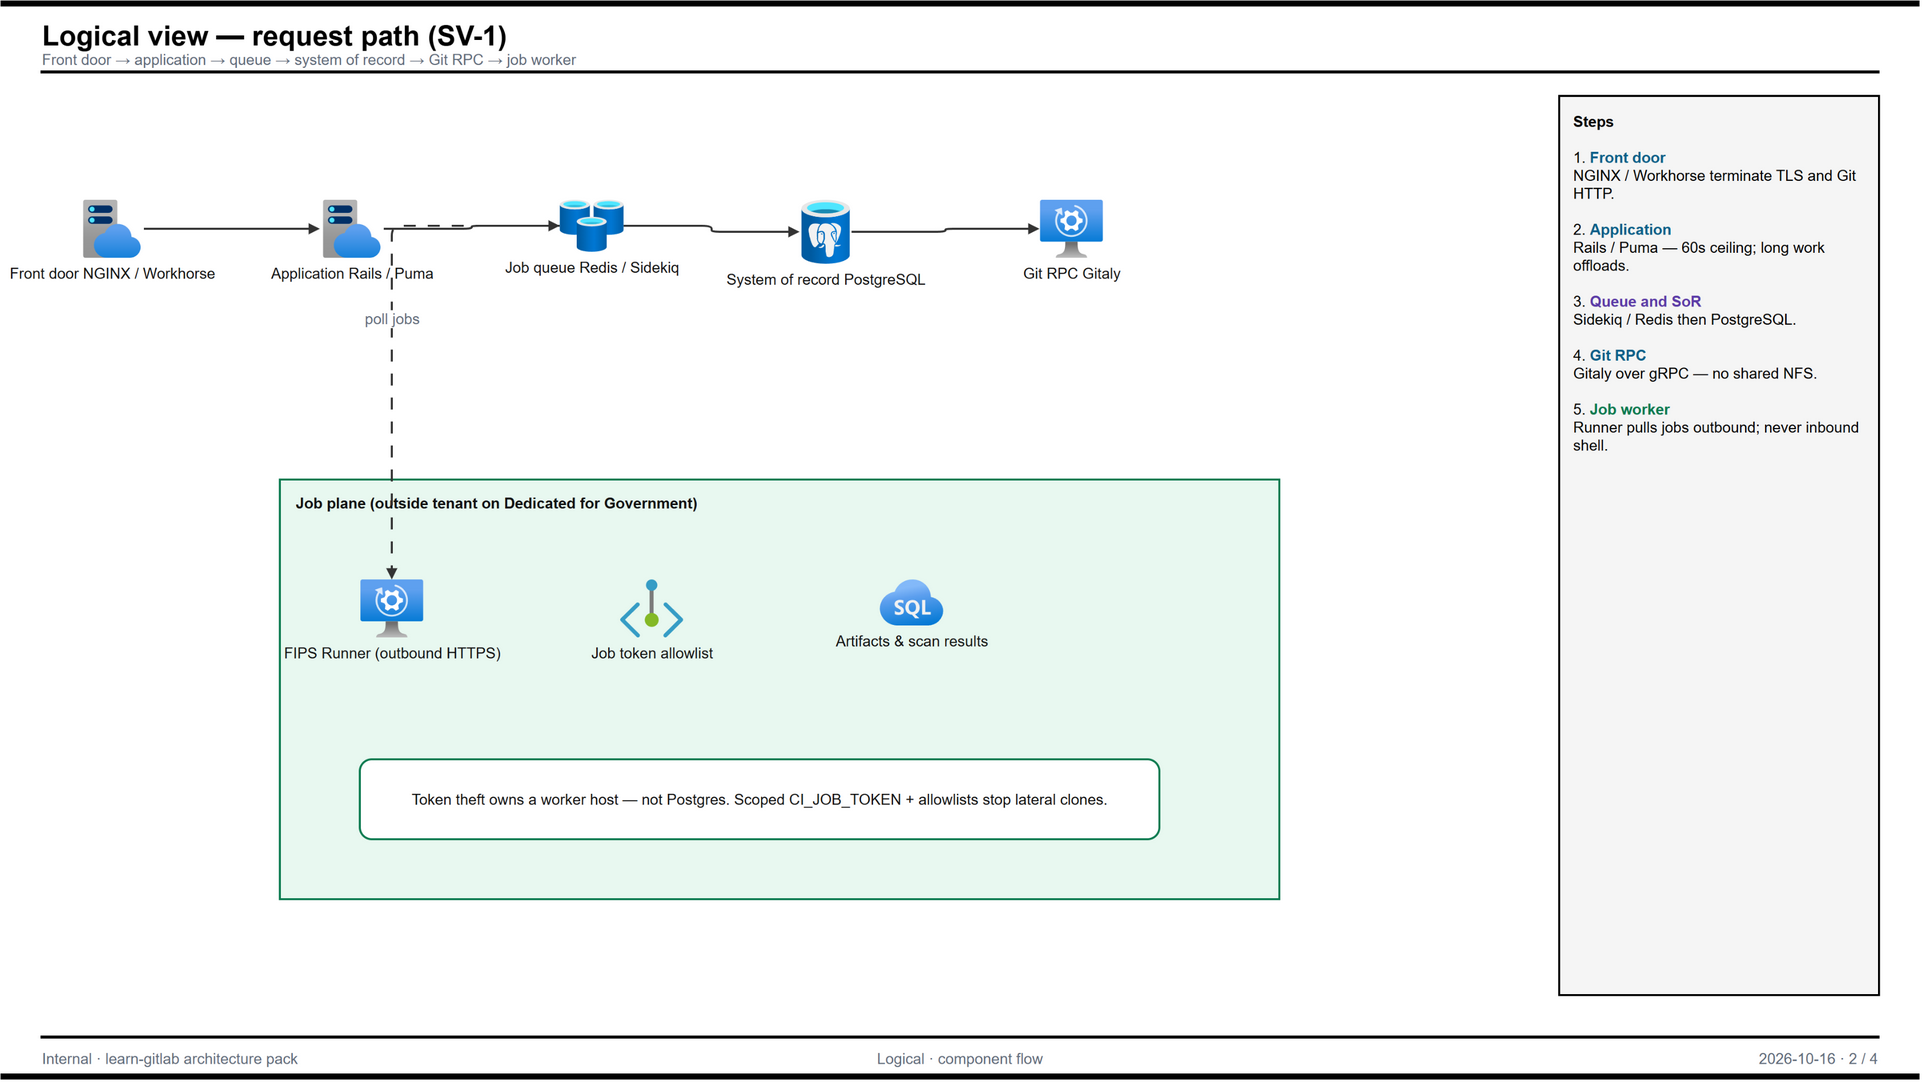
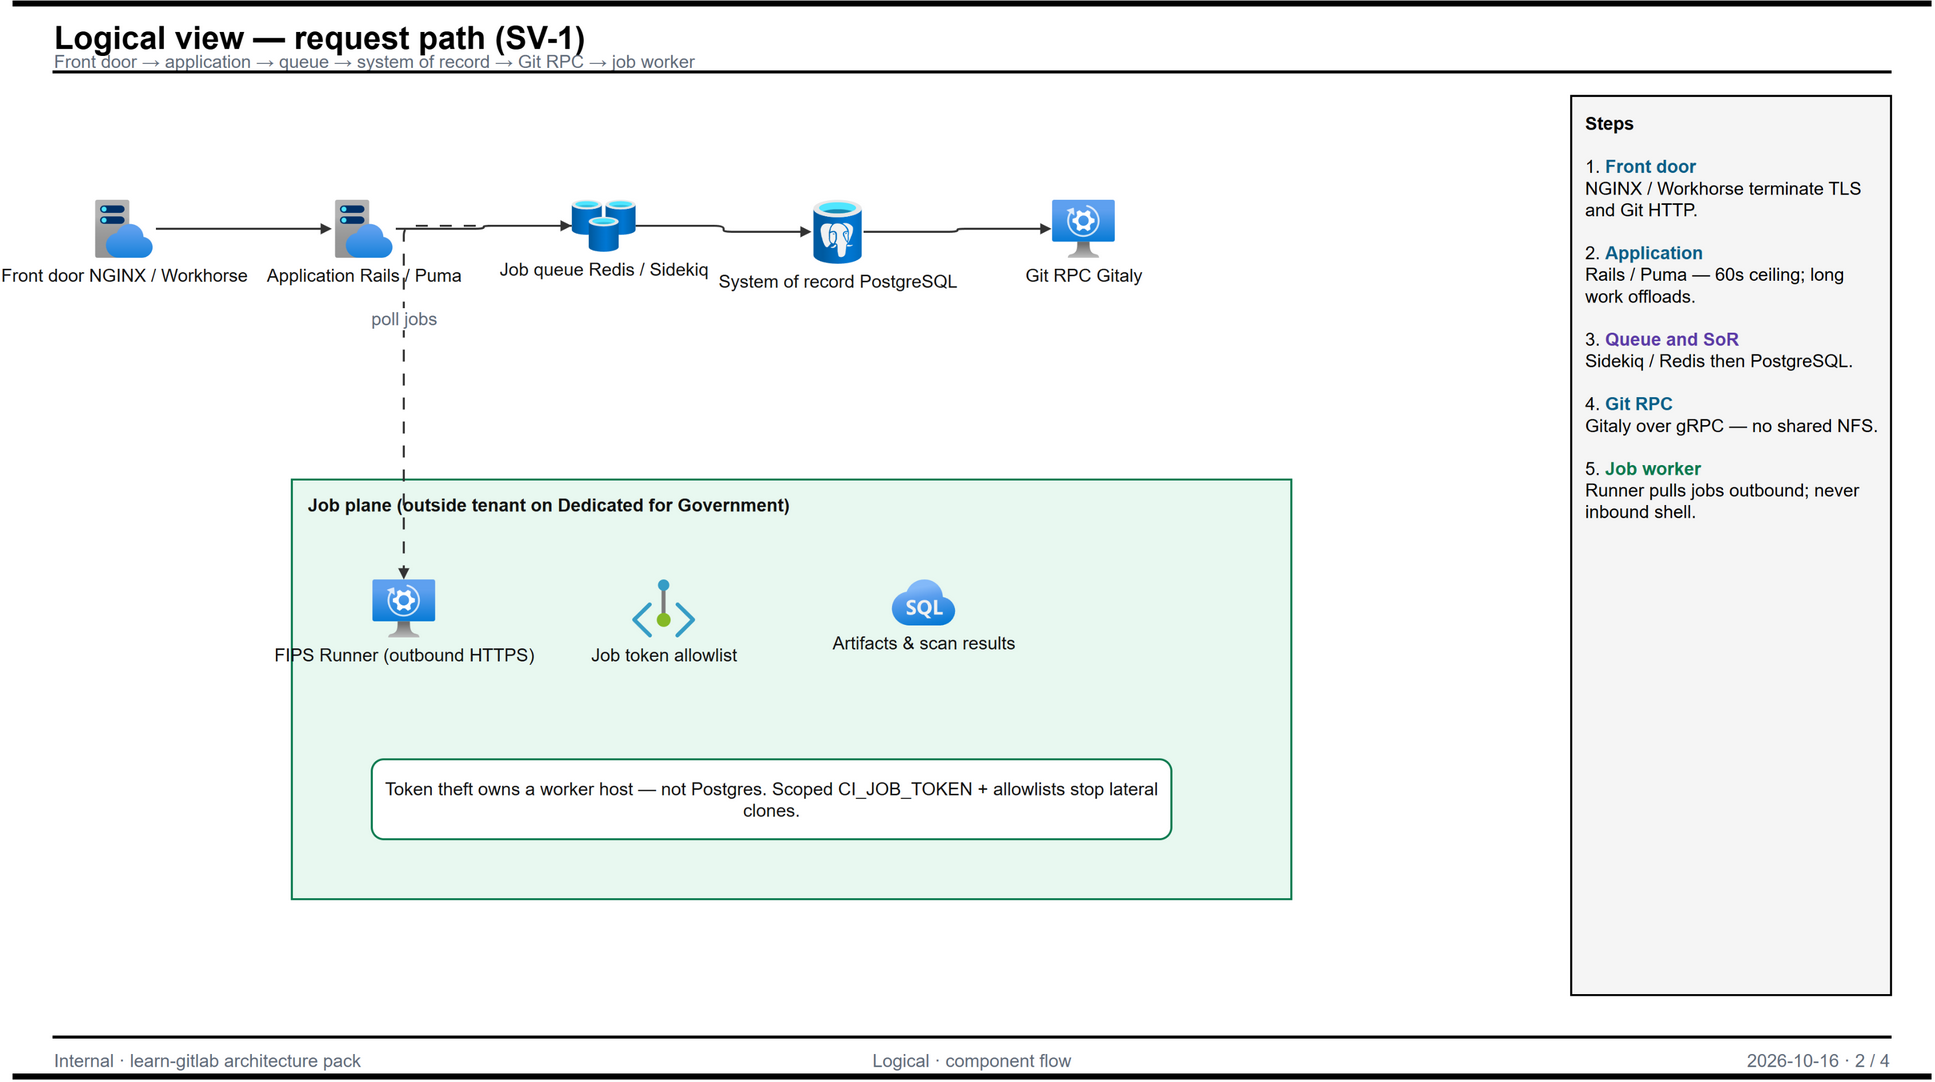
feat: larger Draw.io diagram fonts for Architecture Views
Bump Helvetica title 28→32 and body 15→18, refresh site PNGs from re-export, bump SW to v8. Full PNG/PDF/drawio remain under C:\output\obsidian\drawio\; Obsidian vault has thumbs + Learn-GitLab-Architecture-Views note.

diff --git a/sw.js b/sw.js
@@ -1,5 +1,5 @@
 // Service Worker for Learn GitLab Study Console
-const CACHE_NAME = 'learn-gitlab-v7';
+const CACHE_NAME = 'learn-gitlab-v8';
 const ASSETS_TO_CACHE = [
   './',
   './index.html',

diff --git a/assets/diagrams/00 - Diagram Index.md b/assets/diagrams/00 - Diagram Index.md
@@ -10,7 +10,7 @@ description: "Diagram index for GitLab DevSecOps Platform Architecture — one D
 
 # Diagram Index — GitLab DevSecOps Platform Architecture
 
-Four architecture views. Each PNG is the house-chrome Draw.io export used on the live console. Editable sources live in `drawio/`.
+Four architecture views. Each PNG is the house-chrome Draw.io export used on the live console (Helvetica title 32 / body 18). Editable sources live in `drawio/`. Full on-prem copies: `C:\output\obsidian\drawio\learn-gitlab-*`. Vault thumbs: Obsidian `Grok/Projects/Drawio-Local-MCP/Learn-GitLab-Architecture-Views`.
 
 ## Conceptual view
 
